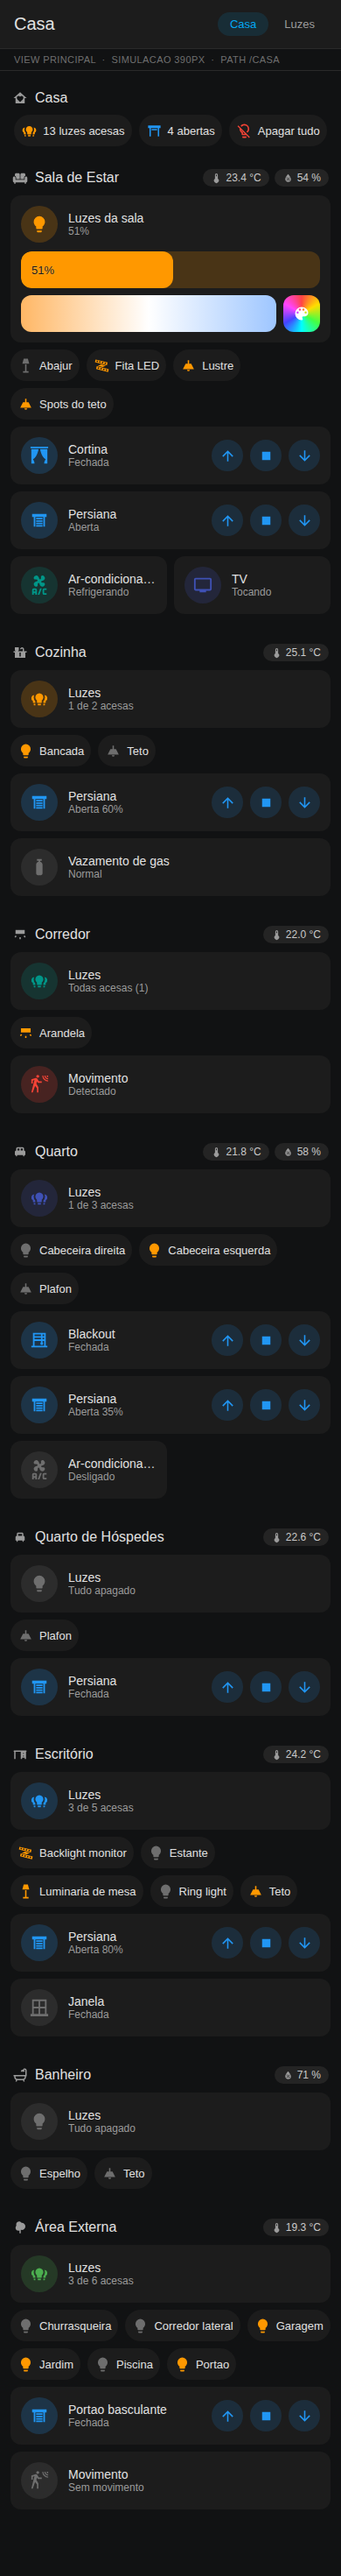
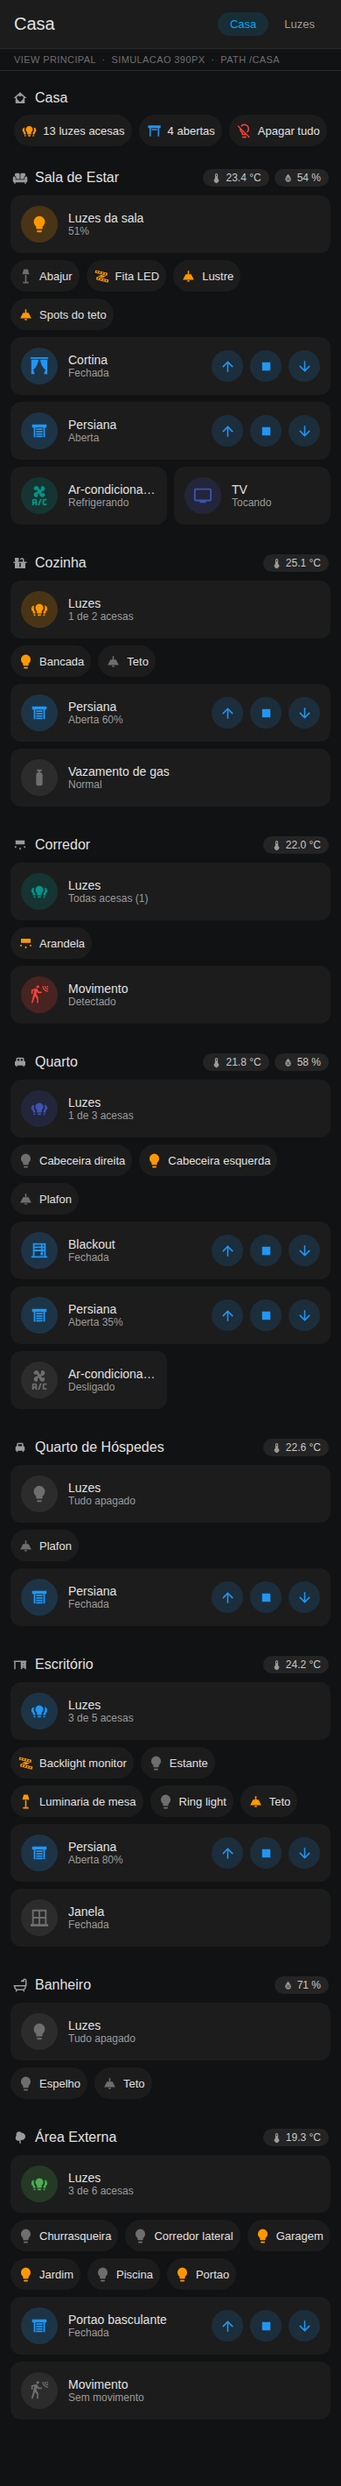
Adapta o painel a lampadas de liga/desliga e reduz o espaco vazio
A casa de exemplo tinha todas as lampadas dimerizaveis, o que fazia a
pre-visualizacao mostrar um quadro que nao corresponde a maioria das casas.
Agora so 4 das 24 sao, marcadas com 'dimeriza: true', e a pre-visualizacao
esconde slider e porcentagem nas outras, como o Mushroom faz.

Nova opcao 'brilho: auto|nunca', com 'nunca' como padrao. Sem slider, todo card
de luz fica com a altura de uma linha e duas colunas encaixam sem sobra: a aba
Luzes caiu de 1371 px para 945 px e a pagina do comodo de 1587 px para 1235 px.
A medicao mostrou que o pior arranjo era o intermediario: 'auto' com duas
colunas iguala as alturas da linha e transforma a luz sem slider numa caixa
grande e vazia ao lado da que tem.

Espaco vazio nas colunas, medido a 1440 px na casa de exemplo: blocos de comodo
nao se dividem entre colunas, entao mais colunas deixava mais sobra no pe das
mais curtas, nao menos. 2 colunas dava 17% vazio, 3 davam 9% e 4 davam 24%. O
padrao passou de 4 para 3 colunas.

'colunas_luzes' passou a valer tambem na aba Luzes e na pagina do comodo, nao
so no modo 'estilo_luzes: cards'.

Acrescenta 'tools/preview.py --metricas', que mede esse espaco vazio, para a
escolha de colunas ser medida em vez de chutada, e corrige em preview.py o
mesmo erro de caminho relativo que o gerador ja tinha corrigido.

Documenta que com 'brilho: nunca' nao vale a pena criar os grupos de luz: o
mestre ja acende e apaga o comodo inteiro, e o grupo so acrescentaria um slider
que essas lampadas nao usam.
[…]

diff --git a/tools/preview.py b/tools/preview.py
@@ -29,6 +29,14 @@ from ha_mock import Entidade  # noqa: E402
 from ha_mock import expandir_auto_entities  # noqa: E402
 
 RAIZ = Path(__file__).resolve().parent.parent
+
+
+def curto(caminho: Path) -> str:
+    """Caminho relativo a raiz do projeto quando possivel; absoluto quando nao."""
+    try:
+        return str(caminho.resolve().relative_to(RAIZ))
+    except ValueError:
+        return str(caminho)
 ICONES = json.loads((RAIZ / "tools" / "icones.json").read_text(encoding="utf-8"))
 
 CORES = {
@@ -179,7 +187,9 @@ def cor_de(ent: Entidade) -> str:
 def texto_estado(ent: Entidade) -> str:
     d = ent.dominio
     if d == "light":
-        return f"{ent.brilho}%" if ent.ligada and ent.brilho else ("Acesa" if ent.ligada else "Apagada")
+        if ent.ligada and ent.dimeriza and ent.brilho:
+            return f"{ent.brilho}%"
+        return "Acesa" if ent.ligada else "Apagada"
     if d == "cover":
         if ent.posicao >= 100:
             return "Aberta"
@@ -265,8 +275,10 @@ class Desenho:
         vertical = c.get("layout") == "vertical"
         cor = "amber" if ent.ligada else "disabled"
         slider = ""
-        mostrar = c.get("show_brightness_control") and (
-            ent.ligada or not c.get("collapsible_controls", True))
+        # O mushroom-light-card so desenha o slider se a lampada aceitar brilho.
+        # Lampada comum de liga/desliga fica com o card de uma linha so.
+        mostrar = (c.get("show_brightness_control") and ent.dimeriza
+                   and (ent.ligada or not c.get("collapsible_controls", True)))
         if mostrar:
             r = rgb("amber")
             largura = ent.brilho if ent.ligada else 0
@@ -435,6 +447,42 @@ def fotografar(htmls: dict[Path, int], destino: Path) -> list[Path]:
 ALVOS_PADRAO = [("casa", 1440), ("casa", 820), ("casa", 390),
                 ("luzes", 390), ("sala-de-estar", 390)]
 
+# Mede quanto de cada coluna fica vazio. Blocos de comodo nao se dividem entre
+# colunas, entao comodos de tamanhos muito diferentes deixam sobra no pe das
+# colunas mais curtas. Menos colunas costuma equilibrar melhor.
+MEDIR_JS = """() => {
+  const secs = [...document.querySelectorAll('.secoes>.secao:not(.larga)')];
+  if (!secs.length) return null;
+  const cols = {};
+  secs.forEach(s => { const r = s.getBoundingClientRect();
+    const k = Math.round(r.left); (cols[k] = cols[k] || []).push(r); });
+  const grupos = Object.values(cols);
+  const alturas = grupos.map(rs => Math.max(...rs.map(r => r.bottom))
+                                 - Math.min(...rs.map(r => r.top)));
+  const usado = grupos.reduce((a, rs) => a + rs.reduce((b, r) => b + r.height, 0), 0);
+  const maior = Math.max(...alturas);
+  return { colunas: alturas.length, pagina: Math.round(document.body.scrollHeight),
+           vazio: Math.round(100 * (1 - usado / (maior * alturas.length))) };
+}"""
+
+
+def medir(htmls: dict[Path, int]) -> None:
+    from playwright.sync_api import sync_playwright
+
+    binario = achar_chromium()
+    print("\nespaco vazio nas colunas (quanto menor, melhor):")
+    with sync_playwright() as pw:
+        nav = pw.chromium.launch(executable_path=binario) if binario else pw.chromium.launch()
+        for arq, largura in htmls.items():
+            pg = nav.new_page(viewport={"width": largura, "height": 900})
+            pg.goto(arq.as_uri())
+            m = pg.evaluate(MEDIR_JS)
+            if m:
+                print(f"  {arq.stem:22} {m['colunas']} coluna(s), "
+                      f"pagina {m['pagina']}px, {m['vazio']}% vazio")
+            pg.close()
+        nav.close()
+
 
 def main(argv=None) -> int:
     p = argparse.ArgumentParser(description="Pre-visualiza o painel.")
@@ -444,6 +492,8 @@ def main(argv=None) -> int:
     p.add_argument("--view", action="append", help="path da view (pode repetir)")
     p.add_argument("--larguras", type=int, nargs="*", help="larguras em px")
     p.add_argument("--so-html", action="store_true", help="nao tira screenshots")
+    p.add_argument("--metricas", action="store_true",
+                   help="mede quanto de espaco vazio sobra nas colunas")
     args = p.parse_args(argv)
 
     dash = yaml.safe_load(args.painel.read_text(encoding="utf-8"))
@@ -462,11 +512,13 @@ def main(argv=None) -> int:
         arq = args.saida / f"{path}-{largura}.html"
         arq.write_text(pagina(dash, casa, path, largura), encoding="utf-8")
         htmls[arq] = largura
-        print(f"html: {arq.relative_to(RAIZ)}")
+        print(f"html: {curto(arq)}")
 
     if not args.so_html:
         for png in fotografar(htmls, args.saida):
-            print(f"png : {png.relative_to(RAIZ)}")
+            print(f"png : {curto(png)}")
+    if args.metricas:
+        medir(htmls)
     return 0
 
 

diff --git a/tools/gerar_painel.py b/tools/gerar_painel.py
@@ -103,6 +103,18 @@ def luzes_da_area(area: str) -> str:
     return f"area_entities('{area}') | select('match', 'light\\\\.') | list"
 
 
+def tem_brilho(cfg: dict) -> bool:
+    """Se o painel deve oferecer controle de brilho e cor.
+
+    Casa com lampadas comuns de liga/desliga ganha em desligar isso: sem slider,
+    todo card de luz fica com a altura de uma linha e duas colunas encaixam sem
+    sobra. Com slider em algumas luzes e nao em outras, a grade iguala as alturas
+    da linha e a luz sem slider vira uma caixa grande e vazia ao lado da que tem.
+    """
+    return cfg["painel"].get("brilho", "auto") != "nunca"
+
+
+
 def cor_do_comodo(comodo: dict, indice: int) -> str:
     return comodo.get("cor") or PALETA[indice % len(PALETA)]
 
@@ -162,9 +174,9 @@ def mestre_de_luz(comodo: dict, cfg: dict, cor: str, com_cor: bool = True) -> di
             "entity": comodo["grupo"],
             "name": "Luzes do comodo",
             "icon": "mdi:lightbulb-group",
-            "show_brightness_control": True,
-            "show_color_temp_control": com_cor,
-            "show_color_control": com_cor,
+            "show_brightness_control": tem_brilho(cfg),
+            "show_color_temp_control": com_cor and tem_brilho(cfg),
+            "show_color_control": com_cor and tem_brilho(cfg),
             "use_light_color": True,
             "collapsible_controls": False,
             "layout": "horizontal",
@@ -247,15 +259,18 @@ def cards_de_luz(comodo: dict, cfg: dict, colunas: int, com_cor: bool = True) ->
     ``collapsible_controls`` mantem os sliders escondidos enquanto a luz esta
     apagada: uma barra de brilho em 0% nao controla nada e so gera ruido.
     """
+    brilho = tem_brilho(cfg)
     return _auto(
         {"type": "grid", "columns": colunas, "square": False},
         "cards",
         [{"domain": "light", "area": comodo["area"], "options": {
             "type": "custom:mushroom-light-card",
-            "layout": "vertical" if colunas > 1 else "horizontal",
-            "show_brightness_control": True,
-            "show_color_temp_control": com_cor,
-            "show_color_control": com_cor,
+            # Sem slider o card cabe numa linha, entao segue horizontal mesmo em
+            # varias colunas: assim todos tem a mesma altura e nao sobra caixa.
+            "layout": "vertical" if (colunas > 1 and brilho) else "horizontal",
+            "show_brightness_control": brilho,
+            "show_color_temp_control": com_cor and brilho,
+            "show_color_control": com_cor and brilho,
             "use_light_color": True,
             "collapsible_controls": True,
             "tap_action": {"action": "toggle"},
@@ -440,7 +455,7 @@ def view_luzes(cfg: dict) -> dict:
             titulo(comodo["area"], comodo.get("icone", "mdi:home"),
                    tap_action=_acao_abrir(comodo, cfg)),
             mestre_de_luz(comodo, cfg, cor),
-            cards_de_luz(comodo, cfg, colunas=1, com_cor=True),
+            cards_de_luz(comodo, cfg, cfg["painel"].get("colunas_luzes", 2), com_cor=True),
         ]})
     return {
         "title": "Luzes",
@@ -462,7 +477,7 @@ def view_comodo(comodo: dict, cfg: dict, indice: int) -> dict:
         {"type": "grid", "cards": [
             titulo("Iluminação", "mdi:lightbulb-group"),
             mestre_de_luz(comodo, cfg, cor),
-            cards_de_luz(comodo, cfg, colunas=1, com_cor=True),
+            cards_de_luz(comodo, cfg, cfg["painel"].get("colunas_luzes", 2), com_cor=True),
         ]},
         {"type": "grid", "cards": [
             titulo("Persianas e cortinas", "mdi:window-shutter"),
@@ -507,6 +522,10 @@ def validar(cfg: dict) -> list[str]:
         erros.append("config: bloco 'painel' ausente ou invalido")
     elif not cfg["painel"].get("url"):
         erros.append("config: 'painel.url' e obrigatorio")
+
+    modo = (cfg.get("painel") or {}).get("brilho", "auto")
+    if modo not in ("auto", "nunca"):
+        erros.append(f"config: 'painel.brilho' deve ser 'auto' ou 'nunca' (veio '{modo}')")
 
     estilo = (cfg.get("painel") or {}).get("estilo_luzes", "botoes")
     if estilo not in ("botoes", "cards"):

diff --git a/tools/ha_mock.py b/tools/ha_mock.py
@@ -45,6 +45,11 @@ class Entidade:
         return self.state in ("on", "open", "playing", "home", "cool", "heat", "cooling")
 
     @property
+    def dimeriza(self) -> bool:
+        """Lampada que aceita brilho. A maioria das casas tem poucas."""
+        return bool(self.attributes.get("dimeriza", False))
+
+    @property
     def brilho(self) -> int:
         return int(self.attributes.get("brilho", 0))
 

diff --git a/README.md b/README.md
@@ -42,20 +42,57 @@ você saber o que é o quê sem ler:
 Cada cômodo tem uma **cor de destaque** própria (`cor:` no config, ou distribuída
 automaticamente), usada no mestre e nos ícones ativos.
 
-## Por que a tela principal não mostra um slider por lâmpada
+## Lâmpadas comuns de liga/desliga
+
+Se as suas lâmpadas **não são dimerizáveis**, ponha `brilho: nunca` em
+`config/comodos.yaml`. É o padrão deste repositório.
+
+Não é só cosmético. Slider e porcentagem somem, e aí **todo card de luz passa a
+ter a altura de uma linha** — o que deixa duas colunas encaixarem sem sobra:
+
+| `brilho` | `colunas_luzes` | Aba Luzes no desktop |
+|---|---|---|
+| `nunca` | 2 | **945 px** |
+| `auto` | 1 | 1371 px |
+| `auto` | 2 | 1377 px, com caixas vazias |
+
+![Aba Luzes no desktop](docs/imagens/luzes-desktop.png)
+
+*Aba Luzes com `brilho: nunca` e `colunas_luzes: 2`: 24 luminárias e 8 mestres
+em 945 px, todos os cards com a mesma altura.*
+
+A última linha é a armadilha: misturar cards com e sem slider na mesma linha faz
+a grade igualar as alturas, e a luz **sem** slider vira uma caixa grande e vazia
+ao lado da que tem. Se você usa `brilho: auto`, use `colunas_luzes: 1`.
+
+> Com `brilho: nunca`, **não vale a pena criar os grupos de luz** (passo 4 da
+> instalação): o mestre já acende e apaga o cômodo inteiro sozinho, e o grupo só
+> acrescentaria um slider que as suas lâmpadas não usam.
+
+## Por que a tela principal não mostra um card por luminária
 
 Foi a primeira versão, e ela media 1900 px de altura no desktop — o Escritório
 sozinho ocupava 800 px. A tela principal virou um **resumo**: mestre do cômodo
-mais um botão por luminária, o que cabe a casa inteira em cerca de 1000 px. O
-controle fino de brilho e cor fica a um toque de distância, na página do cômodo.
+mais um botão por luminária, o que cabe a casa inteira em cerca de 1100 px. O
+detalhe fica a um toque de distância, na página do cômodo.
 
-| | Altura no desktop |
-|---|---|
-| Um card com slider por luminária | ~1900 px |
-| Resumo com botões (atual) | ~1020 px |
-
-Se você preferir a versão com sliders na tela principal, é uma linha:
+Se você preferir cards em vez de botões na tela principal, é uma linha:
 `estilo_luzes: cards` em `config/comodos.yaml`.
+
+## Quantas colunas usar
+
+Blocos de cômodo **não se dividem** entre colunas. Com cômodos de tamanhos bem
+diferentes, mais colunas costuma deixar *mais* sobra no pé das mais curtas, não
+menos. Medido nesta casa de exemplo, a 1440 px:
+
+| `colunas_max` | Altura da página | Espaço vazio |
+|---|---|---|
+| 2 | 1671 px | 17 % |
+| **3** | **1113 px** | **9 %** |
+| 4 | 1071 px | 24 % |
+
+Por isso o padrão é 3. O número certo depende dos **seus** cômodos — meça com
+`python3 tools/preview.py --metricas`.
 
 ## No celular
 
@@ -91,10 +128,10 @@ docs/INSTALACAO.md          <- passo a passo de instalação
 ## Uso
 
 ```bash
-$EDITOR config/comodos.yaml     # 1. edite os cômodos
-python3 tools/gerar_painel.py   # 2. gere o painel
-python3 tools/validar.py        # 3. confira o YAML
-python3 tools/preview.py        # 4. veja como ficou, sem instalar nada
+$EDITOR config/comodos.yaml               # 1. edite os cômodos
+python3 tools/gerar_painel.py             # 2. gere o painel
+python3 tools/validar.py                  # 3. confira o YAML
+python3 tools/preview.py --metricas       # 4. veja e meça, sem instalar nada
 ```
 
 `config/comodos.yaml` só pede, por cômodo, o **nome exato da área** e um ícone.
@@ -107,6 +144,13 @@ Assistant e tira screenshots em 1440, 820 e 390 px, usando a casa fictícia de
 `config/casa_exemplo.yaml` — que tem de propósito cômodos de 1 a 6 luminárias,
 para você ver se o layout aguenta os seus extremos. Edite esse arquivo para
 descrever a sua casa e a pré-visualização passa a ser a sua.
+
+`--metricas` mede quanto de cada coluna fica vazio, para você comparar
+configurações em vez de chutar.
+
+A casa de exemplo tem de propósito só 4 lâmpadas dimerizáveis em 24 — se as suas
+forem todas dimerizáveis, marque `dimeriza: true` nelas e a pré-visualização
+passa a mostrar os sliders.
 
 Não é o Home Assistant: fontes e espaçamentos são próximos, não idênticos.
 

diff --git a/docs/INSTALACAO.md b/docs/INSTALACAO.md
@@ -64,7 +64,13 @@ Copie `packages/painel_novo.yaml` para `<config>/packages/painel_novo.yaml` e
 
 ---
 
-## 4. Crie um grupo de luz por cômodo (opcional, recomendado)
+## 4. Crie um grupo de luz por cômodo (só se as lâmpadas forem dimerizáveis)
+
+> **Pule este passo** se as suas lâmpadas são comuns de liga/desliga, que é o
+> padrão deste repositório (`brilho: nunca`). O card mestre já acende e apaga o
+> cômodo inteiro sem grupo nenhum; o grupo só acrescentaria um slider de brilho
+> que as suas lâmpadas não usam.
+
 
 **Configurações → Dispositivos e serviços → Ajudantes → Criar ajudante → Grupo
 → Grupo de luzes.** Selecione as luminárias do cômodo e dê um nome
@@ -153,4 +159,6 @@ A Forma B é a que permite versionar o painel neste repositório.
 | Título "Sensores"/"Clima"/"Mídia" vazio na página do cômodo | Normal: o título é fixo, a lista some quando a área não tem nada daquele tipo |
 | Cômodos fora de ordem no desktop | É o empacotamento denso preenchendo os vãos. Use `densidade: false` para a ordem exata do config |
 | Tela principal muito alta | Ponha `cor_na_tela_inicial: false`, ou `estilo_luzes: botoes` se você tinha mudado para `cards` |
-| Mestre do cômodo sem slider de brilho | Falta o `grupo:` daquele cômodo — ver passo 4 |
+| Mestre do cômodo sem slider de brilho | Esperado com `brilho: nunca`. Com `brilho: auto`, falta o `grupo:` daquele cômodo — ver passo 4 |
+| Porcentagem aparecendo numa lâmpada que não dimeriza | O Home Assistant mostra o estado que a lâmpada reporta. Se ela reporta brilho mas você não usa, `brilho: nunca` tira os controles |
+| Caixas grandes e vazias ao lado dos cards de luz | `brilho: auto` com `colunas_luzes: 2`. Use `colunas_luzes: 1`, ou `brilho: nunca` |
